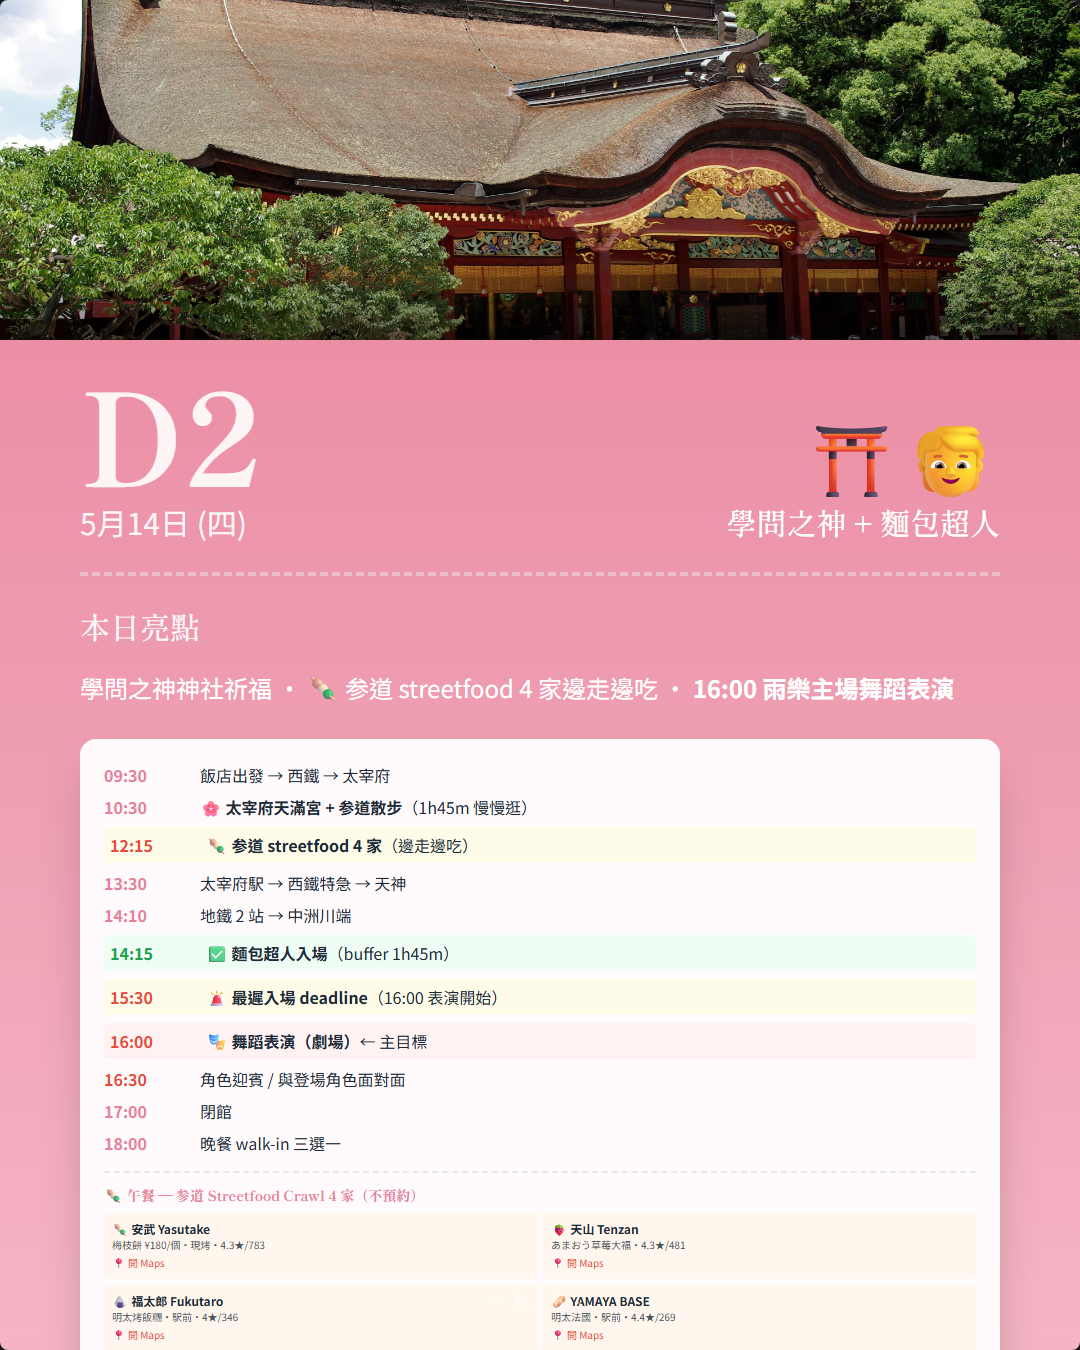
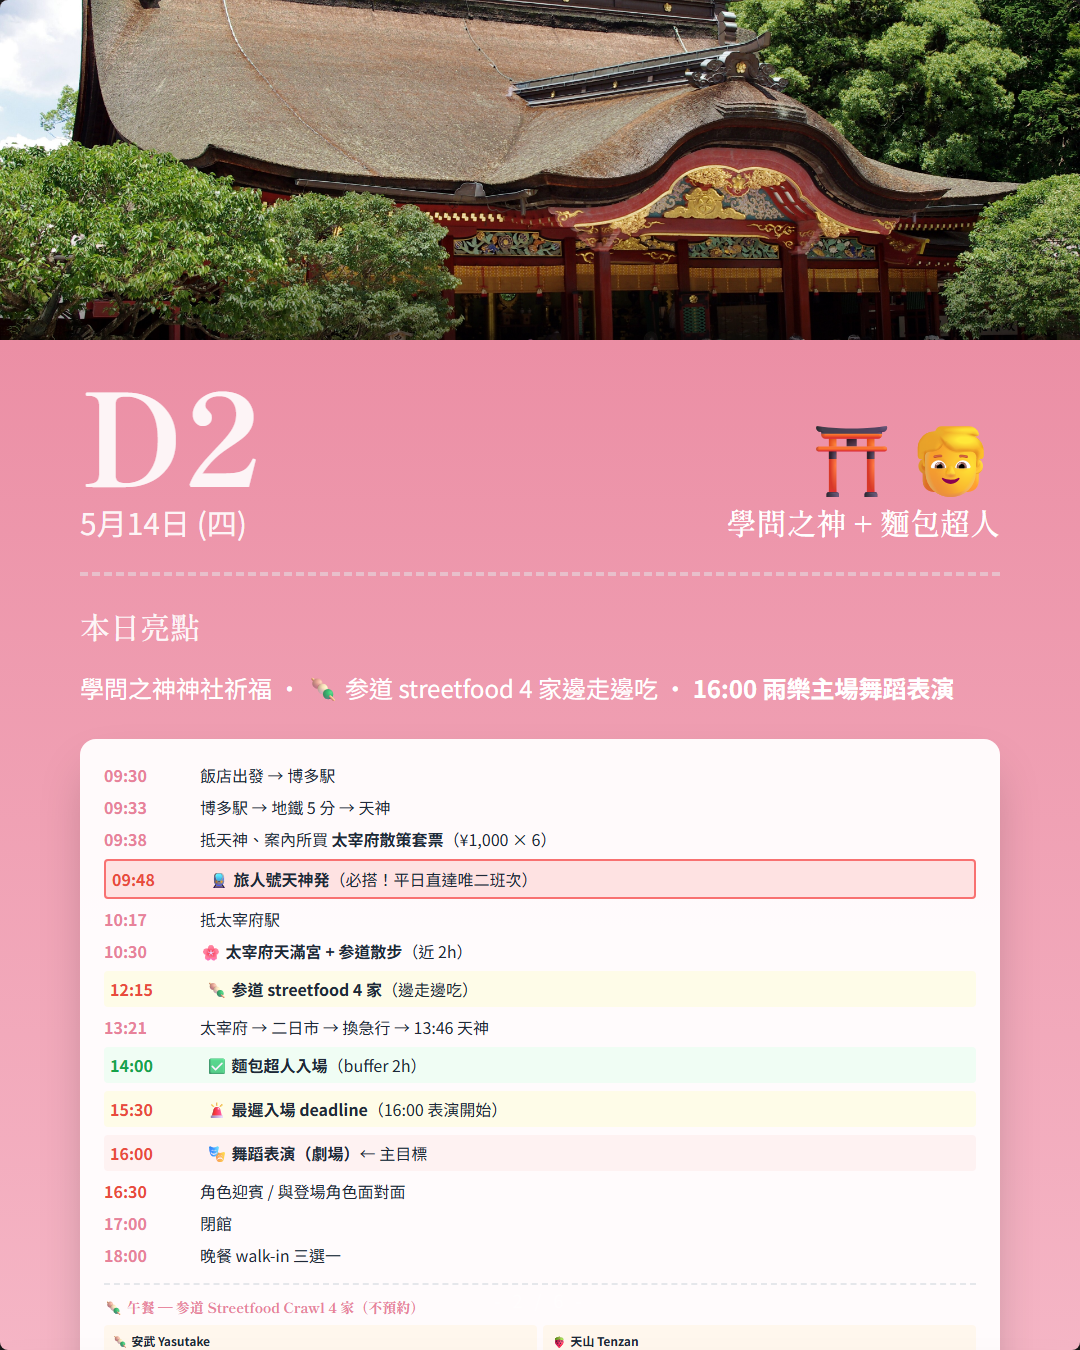
D2 旅人號 9:48 必搭資訊 + 太宰府散策套票推廣

Changed region(s): [[0.0917, 0.56, 0.9167, 1.0], [0.4889, 0.9022, 0.6111, 1.0], [0.3361, 0.9644, 0.3667, 0.9956]]

diff --git a/index.html b/index.html
@@ -504,9 +504,22 @@
 
     <div id="transit-d2" class="day-block" style="border-color:#E8829A;">
       <h2 style="color:#E8829A;">⛩ D2 5/14 四 太宰府 + 麵包超人</h2>
+      <div style="background:rgba(232,181,71,.15);border:1.5px solid rgba(232,181,71,.4);border-radius:10px;padding:12px;margin-bottom:10px;">
+        <div style="font-weight:700;color:#E8B547;font-size:14px;margin-bottom:6px;">⭐ 旅人號觀光列車（必搭 9:48 天神発）</div>
+        <div style="font-size:12px;line-height:1.6;opacity:.9;">
+          5/14 平日直達車<b>只有 9:48 + 11:48 兩班</b>、必搭 9:48！<br>
+          📍 上車：西鐵福岡（天神）駅 1 號月台<br>
+          ⏱ 9:48 天神発 → 10:17 太宰府着（直達 29 分）<br>
+          💴 ¥420/人、不需預約不加價、雨樂免費<br>
+          🎫 強推「太宰府散策套票 ¥1,000 × 6 大人 = ¥6,000」（含來回 + 梅枝餅 ¥500 折抵券、省 ¥2,040）<br>
+          🛒 案内所購買：西鐵福岡（天神）駅 1F<br>
+          ⚠ 回程：13:21 太宰府発（普通）→ 13:27 二日市換急行 → 13:46 天神
+        </div>
+        <a target="_blank" href="https://inf.nishitetsu.jp/train/tabito/" style="color:#E8B547;font-size:11px;display:inline-block;margin-top:6px;">→ 旅人號官方頁面</a>
+      </div>
       <a class="transit-link" target="_blank" href="https://www.google.com/maps/dir/?api=1&origin=Hakata+Station&destination=Dazaifu+Tenmangu&travelmode=transit">
-        <div class="t-route">🚆 博多駅 → 太宰府天滿宮</div>
-        <div class="t-meta">地鐵到天神 + 西鐵特急到二日市換普通・約 50-60 分・¥630/人</div>
+        <div class="t-route">🚆 博多駅 → 太宰府（含旅人號）</div>
+        <div class="t-meta">博多→天神 ¥210 + 旅人號 ¥420 = ¥630/人（單買）/ 套票 ¥1,000 含來回</div>
       </a>
       <a class="transit-link" target="_blank" href="https://www.google.com/maps/search/?api=1&query=太宰府天満宮">
         <div class="t-route">📍 太宰府天滿宮</div>
